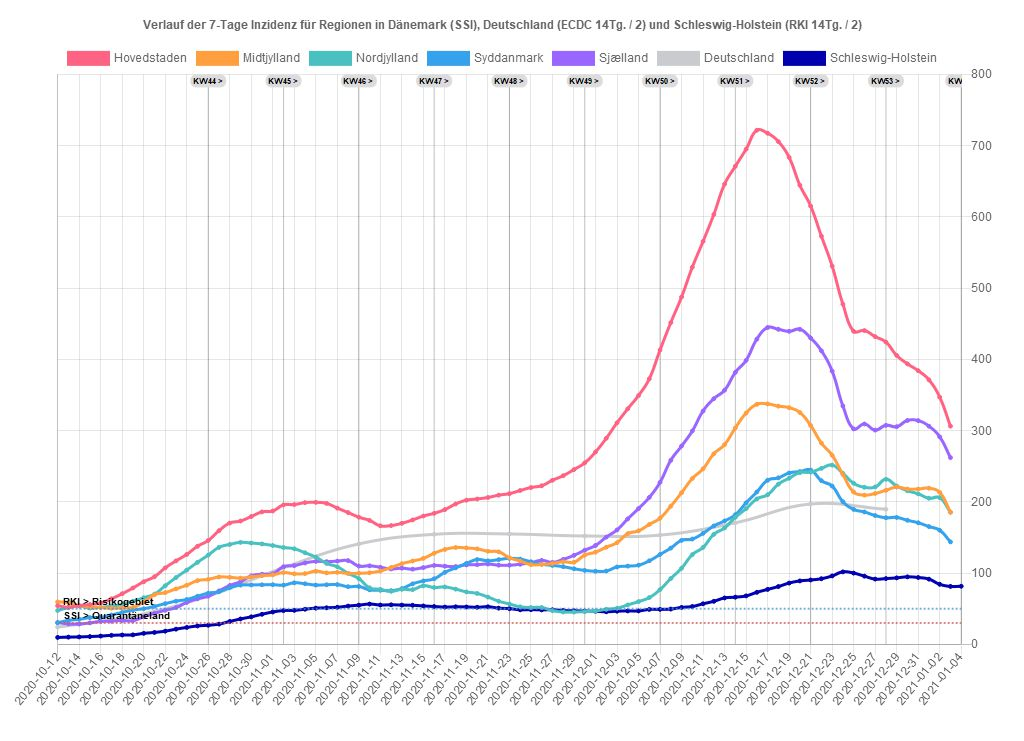
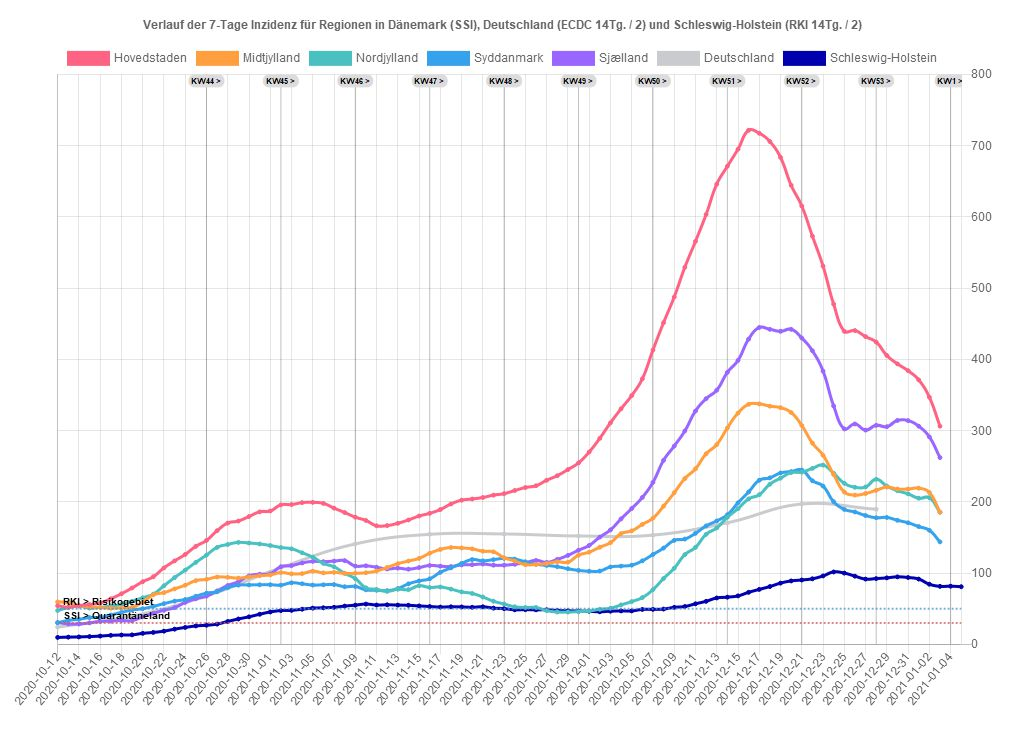
05.01.2021 13:11:04,67

diff --git a/dk/regioner.js b/dk/regioner.js
@@ -2,7 +2,7 @@ var chdata={ type:'line',
 last_update: '2021-01-04',
 last_dk_data: '2021-01-03',
 data: {
-labels: ["2020-10-12","2020-10-13","2020-10-14","2020-10-15","2020-10-16","2020-10-17","2020-10-18","2020-10-19","2020-10-20","2020-10-21","2020-10-22","2020-10-23","2020-10-24","2020-10-25","2020-10-26","2020-10-27","2020-10-28","2020-10-29","2020-10-30","2020-10-31","2020-11-01","2020-11-02","2020-11-03","2020-11-04","2020-11-05","2020-11-06","2020-11-07","2020-11-08","2020-11-09","2020-11-10","2020-11-11","2020-11-12","2020-11-13","2020-11-14","2020-11-15","2020-11-16","2020-11-17","2020-11-18","2020-11-19","2020-11-20","2020-11-21","2020-11-22","2020-11-23","2020-11-24","2020-11-25","2020-11-26","2020-11-27","2020-11-28","2020-11-29","2020-11-30","2020-12-01","2020-12-02","2020-12-03","2020-12-04","2020-12-05","2020-12-06","2020-12-07","2020-12-08","2020-12-09","2020-12-10","2020-12-11","2020-12-12","2020-12-13","2020-12-14","2020-12-15","2020-12-16","2020-12-17","2020-12-18","2020-12-19","2020-12-20","2020-12-21","2020-12-22","2020-12-23","2020-12-24","2020-12-25","2020-12-26","2020-12-27","2020-12-28","2020-12-29","2020-12-30","2020-12-31","2021-01-01","2021-01-02","2021-01-03","2021-01-04"],
+labels: ["2020-10-12","2020-10-13","2020-10-14","2020-10-15","2020-10-16","2020-10-17","2020-10-18","2020-10-19","2020-10-20","2020-10-21","2020-10-22","2020-10-23","2020-10-24","2020-10-25","2020-10-26","2020-10-27","2020-10-28","2020-10-29","2020-10-30","2020-10-31","2020-11-01","2020-11-02","2020-11-03","2020-11-04","2020-11-05","2020-11-06","2020-11-07","2020-11-08","2020-11-09","2020-11-10","2020-11-11","2020-11-12","2020-11-13","2020-11-14","2020-11-15","2020-11-16","2020-11-17","2020-11-18","2020-11-19","2020-11-20","2020-11-21","2020-11-22","2020-11-23","2020-11-24","2020-11-25","2020-11-26","2020-11-27","2020-11-28","2020-11-29","2020-11-30","2020-12-01","2020-12-02","2020-12-03","2020-12-04","2020-12-05","2020-12-06","2020-12-07","2020-12-08","2020-12-09","2020-12-10","2020-12-11","2020-12-12","2020-12-13","2020-12-14","2020-12-15","2020-12-16","2020-12-17","2020-12-18","2020-12-19","2020-12-20","2020-12-21","2020-12-22","2020-12-23","2020-12-24","2020-12-25","2020-12-26","2020-12-27","2020-12-28","2020-12-29","2020-12-30","2020-12-31","2021-01-01","2021-01-02","2021-01-03","2021-01-04","2021-01-05"],
 datasets: [
 {label: 'Hovedstaden',
 backgroundColor: window.chartColors.red,
@@ -34,11 +34,11 @@ backgroundColor: window.chartColors.grey,
 borderColor: window.chartColors.grey,
 spanGaps: true,
 fill: false,
-data: [24.1,,,,,,,39.6,,,,,,,67.8,,,,,,,107.6,,,,,,,140.9,,,,,,,154.4,,,,,,,154.9,,,,,,,152.1,,,,,,,153.3,,,,,,,170.6,,,,,,,196.9,,,,,,,189.6,,,,,,,]},
+data: [24.1,,,,,,,39.6,,,,,,,67.8,,,,,,,107.6,,,,,,,140.9,,,,,,,154.4,,,,,,,154.9,,,,,,,152.1,,,,,,,153.3,,,,,,,170.6,,,,,,,196.9,,,,,,,189.6,,,,,,,,]},
 {label: 'Schleswig-Holstein',
 backgroundColor: '#0000AF',
 borderColor: '#0000AF',
 fill: false,
-data: [9.7,10.1,10.4,10.9,11.6,12.6,13.1,13.3,15.4,16.7,18.5,21.3,23.7,25.8,26.8,28.4,32.1,35.6,38.6,42.2,45.4,47.4,47.7,49.3,50.8,51.3,52.0,53.7,55.0,56.5,55.2,55.5,55.1,54.8,53.9,53.1,52.3,52.7,52.5,52.0,52.7,50.8,50.1,48.5,48.7,48.4,48.5,47.5,47.1,46.7,46.4,45.7,46.5,46.9,46.9,49.0,49.1,49.5,51.8,53.1,56.9,60.4,65.1,66.2,68.0,73.0,77.1,81.1,86.0,89.0,90.3,92.1,96.0,101.7,100.0,95.7,91.6,92.3,93.3,94.7,93.8,91.5,84.3,81.3,81.5]}
+data: [9.7,10.1,10.4,10.9,11.6,12.6,13.1,13.3,15.4,16.7,18.5,21.3,23.7,25.8,26.8,28.4,32.1,35.6,38.6,42.2,45.4,47.4,47.7,49.3,50.8,51.3,52.0,53.7,55.0,56.5,55.2,55.5,55.1,54.8,53.9,53.1,52.3,52.7,52.5,52.0,52.7,50.8,50.1,48.5,48.7,48.4,48.5,47.5,47.1,46.7,46.4,45.7,46.5,46.9,46.9,49.0,49.1,49.5,51.9,53.1,56.9,60.4,65.1,66.2,68.0,73.0,77.1,81.1,85.9,89.0,90.3,92.0,96.0,101.6,100.0,95.7,91.6,92.3,93.3,94.7,93.8,91.6,84.4,81.4,81.6,80.9]}
 ]}};
 

diff --git a/sh/Kreis_PI.js b/sh/Kreis_PI.js
@@ -8,10 +8,11 @@ yAxisID: 'first-y-axis',
 data: [7,7,2,17,0,9,3,8,10,6,6,7,4,2,7,6,7,4,8,3,11,12,17,9,3,0,36,10,12,34,0,73,34,8,10,0,27,36,60,67,0,32,26,49,42,43,45,24,7,36,47,34,28,43,18,0,51,51,49,47,42,31,55,50,68,43,0,73,18,32,47,59,40,42,0,12,34,75,37,98,53,92,19,17,79,62,92,53,113,32,41,100,121,58,56,49,20,47,118,115,84,14,36,26,27]},
 {label: '7-Tg. Inzidenz',
 type: 'line',
+fill: false,
 pointBackgroundColor: 'orange',
 borderColor: 'orange',
 yAxisID: 'first-y-axis',
-data: [10.4300994,12.0104175,11.3782902,14.5389264,12.0104175,14.2228628,14.2228628,14.5389264,15.4871172,16.7513717,13.2746719,15.4871172,13.9067992,13.5907355,13.2746719,12.0104175,12.3264811,11.6943538,12.0104175,11.6943538,14.5389264,16.1192445,19.5959443,20.2280715,19.9120079,17.383499,27.8135983,27.4975347,27.4975347,32.8706162,30.0260436,52.1504969,62.8966598,54.0468786,54.0468786,50.2541151,48.0416698,59.41996,55.311133,65.7412324,63.2127235,70.166123,78.3837771,85.3371767,87.2335584,81.8604769,74.9070773,82.4926041,74.5910137,77.7516499,77.1195226,74.5910137,69.8500594,69.2179322,67.3215505,65.1091052,69.8500594,71.1143139,75.8552681,81.8604769,81.5444133,85.6532403,103.036739,102.720676,108.093757,106.197375,91.3423854,101.140358,97.0315305,89.7620673,88.8138765,85.9693039,85.021113,98.295785,75.2231409,86.0,87.9,97.8,89.8,107.6,109.8,127.5,129.7,124.3,125.0,113.3,129.4,112.6,83.5,77.5,72.1,155.6,169.6,164.8,168.0,149.3,144.3,143.9,135.7,146.2,152.2,140.8,136.7,137.3,132.9]},
+data: [10.4,12.0,11.4,14.5,12.0104175,14.2,14.2,14.5,15.5,16.8,13.3,15.5,13.9,13.6,13.3,12.0,12.3,11.7,12.0,11.7,14.5,16.1,19.6,20.2,19.9,17.383499,27.8,27.5,27.5,32.9,30.0260436,52.2,62.9,54.0,54.0,50.2541151,48.0,59.4,55.3,65.7,63.2127235,70.2,78.4,85.3,87.2,81.9,74.9,82.5,74.6,77.8,77.1,74.6,69.9,69.2,67.3,65.1091052,69.9,71.1,75.9,81.9,81.5,85.7,103.0,102.7,108.1,106.2,91.3423854,101.1,97.0,89.8,88.8,86.0,85.0,98.3,75.2231409,73.3,74.0,82.8,75.9,94.2,97.7,126.7,129.0,123.6,124.8,132.7,130.9,130.9,137.5,141.6,149.2,155.8,174.5,163.7,164.7,144.4,140.6,142.5,148.2,146.3,154.6,141.3,137.2,139.1,132.9]},
 {label: 'Hospitalisierung',
 type: 'bar',
 backgroundColor: window.chartColors.red,
@@ -20,8 +21,9 @@ data: [0,0,0,0,0,0,1,1,0,0,0,0,1,1,1,-1,2,0,0,0,0,0,0,0,0,0,3,2,0,1,0,5,0,1,1,0,
 {label: 'Hospitalisierung (∑ 14-Tg.)',
 type: 'line',
 pointRadius: 0,
+fill: false,
 borderColor: 'rgba(0,128,0,0.5)',
-borderWidth: 1.5,
+borderWidth: 2,
 yAxisID: 'first-y-axis',
 data: [2,2,2,2,2,2,3,4,3,2,2,2,3,4,5,4,6,6,6,6,5,4,4,4,4,4,6,7,6,8,6,11,11,12,13,13,14,16,21,23,20,20,21,22,27,25,25,24,26,30,31,32,30,29,30,28,33,32,29,28,30,30,28,26,30,31,28,33,36,40,37,39,39,42,40,42,45,44,44,47,51,46,42,47,49,46,51,46,46,44,40,64,66,65,63,65,68,64,74,83,80,86,96,99,103]},
 {label: 'Todesfälle',
@@ -29,5 +31,14 @@ type: 'bar',
 backgroundColor: 'black',
 yAxisID: 'first-y-axis',
 data: [0,0,0,0,0,0,0,0,0,0,0,0,0,0,0,0,0,0,0,0,0,0,0,0,0,0,0,0,0,0,0,0,0,0,0,0,1,0,0,0,0,0,0,0,0,0,0,0,0,1,0,0,0,0,0,0,0,0,0,0,0,0,0,0,0,1,0,1,0,2,0,0,2,1,0,0,0,1,0,2,1,0,0,0,1,0,7,0,0,0,0,4,0,0,2,0,2,3,4,3,0,6,0,2,10]},
+{label: 'Todesfälle je Woche',
+type: 'line',
+fill: false,
+spanGaps: true,
+borderColor: 'rgba(128,128,128,1)',
+borderWidth: 2,
+pointRadius: 2,
+yAxisID: 'first-y-axis',
+data: [,,,,,0,,,,,,,0,,,,,,,0,,,,,,,0,,,,,,,0,,,,,,,1,,,,,,,0,,,,,,,1,,,,,,,0,,,,,,,2,,,,,,,5,,,,,,,4,,,,,,,8,,,,,,,8,,,,,,,18,]},
 ]};
 

diff --git a/sh/index.html b/sh/index.html
@@ -5,7 +5,7 @@
 <meta property="og:image" content="index.jpg" />
 <meta property="og:type" content="website" />
 <meta property="og:locale" content="de_DE" />
-<meta property="og:updated_time" content="2021-01-05T11:04:55+01:00" />
+<meta property="og:updated_time" content="2021-01-05T13:11:04+01:00" />
 <title>COVID-19-Fälle im Kreis Pinneberg</title>
 <link rel="stylesheet" href="../css/style.css" media="screen" type="text/css">
 <link rel="stylesheet" media="screen" href="Chart.min.css"> 
@@ -25,7 +25,7 @@
 Die Zahl 14 ist nicht willkürlich gewählt, sondern basiert auf einer 
 <a href="https://www.ruhrbarone.de/mit-covid-19-ins-krankenhaus-1-von-5-patienten-stirbt-stationaer/192045">hier veröffentlichten Untersuchung</a> aus der sich ein durchschnittlicher Krankenhausaufenthalt (bzgl. COVID-19) von 13.7 Tagen ableiten lassen kann.</li>
 <li>Diese Grafik basiert auf der unter <a href="https://www.schleswig-holstein.de/DE/Schwerpunkte/Coronavirus/Zahlen/zahlen_node.html">www.schleswig-holstein.de</a>
-veröffentlichten <strong>&quot;CSV-Datei der Kreisdaten&quot;</strong> sowie der dort gezeigten Tabelle der Falldaten und Inzidenzen je Kreis. Aufgrund verschiedener Veröffentlichungszeitpunkte kann es zu Abweichungen zu Daten des RKI kommen.</li>
+veröffentlichten <strong>&quot;CSV-Datei der Kreisdaten&quot;</strong> sowie der dort gezeigten Tabellen mit Daten je Kreis. Aufgrund verschiedener Veröffentlichungszeitpunkte kann es zu Abweichungen zu Daten des RKI kommen.</li>
 </ul>
 <script>
 var ctx = document.getElementById('myChart').getContext('2d');
@@ -75,11 +75,11 @@ var opt = {
     }
 chdata.options=opt
 
-//*************************  add annotations for last 10 weeks on Monday ***********************
+//*************************  add annotations for last n weeks on Monday ***********************
 
 var Mo=montag(new Date())
 var dayTicks=86400000
-for(w = Mo.getTime() ; w >= Mo.getTime()-(10*7*dayTicks) ; w -= (7*dayTicks)) {
+for(w = Mo.getTime() ; w >= Mo.getTime()-(20*7*dayTicks) ; w -= (7*dayTicks)) {
 
     var kwMo = new Date(w)
     var kwVal = kalenderwoche(kwMo)

diff --git a/sh/index_sh_alter.html b/sh/index_sh_alter.html
@@ -5,7 +5,7 @@
 <meta property="og:image" content="index_sh_alter.jpg" />
 <meta property="og:type" content="website" />
 <meta property="og:locale" content="de_DE" />
-<meta property="og:updated_time" content="2021-01-05T11:04:55+01:00" />
+<meta property="og:updated_time" content="2021-01-05T13:11:04+01:00" />
 <title>Altersverteilung der COVID-19-Fälle in Schleswig-Holstein</title>
 <link rel="stylesheet" href="../css/style.css" media="screen" type="text/css">
 <link rel="stylesheet" media="screen" href="Chart.min.css"> 

diff --git a/sh/index_pi_alter.html b/sh/index_pi_alter.html
@@ -5,7 +5,7 @@
 <meta property="og:image" content="index_pi_alter.jpg" />
 <meta property="og:type" content="website" />
 <meta property="og:locale" content="de_DE" />
-<meta property="og:updated_time" content="2021-01-05T11:04:55+01:00" />
+<meta property="og:updated_time" content="2021-01-05T13:11:04+01:00" />
 <title>Altersverteilung der COVID-19-Fälle im Kreis Pinneberg</title>
 <link rel="stylesheet" href="../css/style.css" media="screen" type="text/css">
 <link rel="stylesheet" media="screen" href="Chart.min.css"> 
